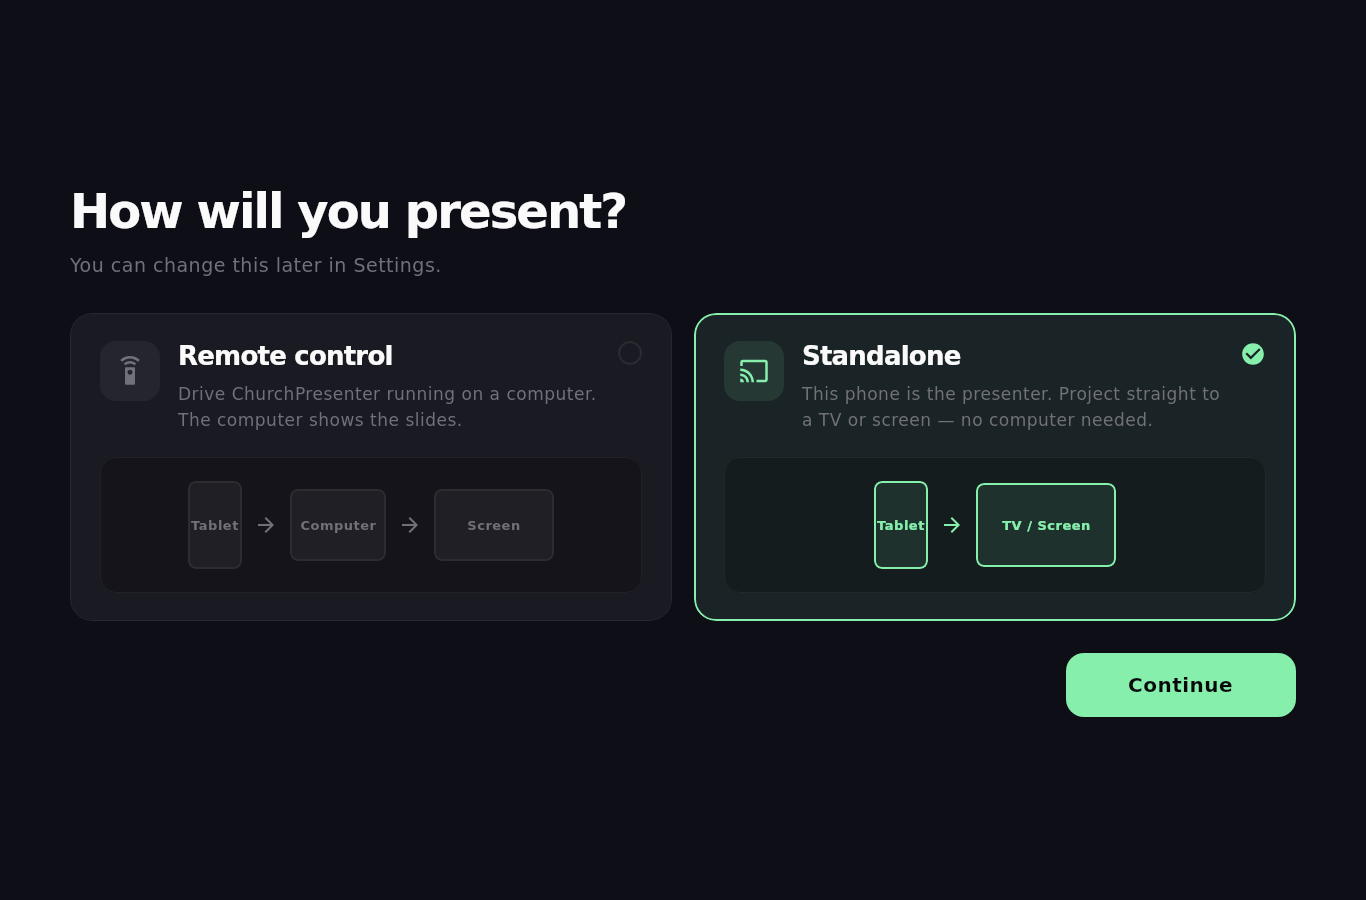
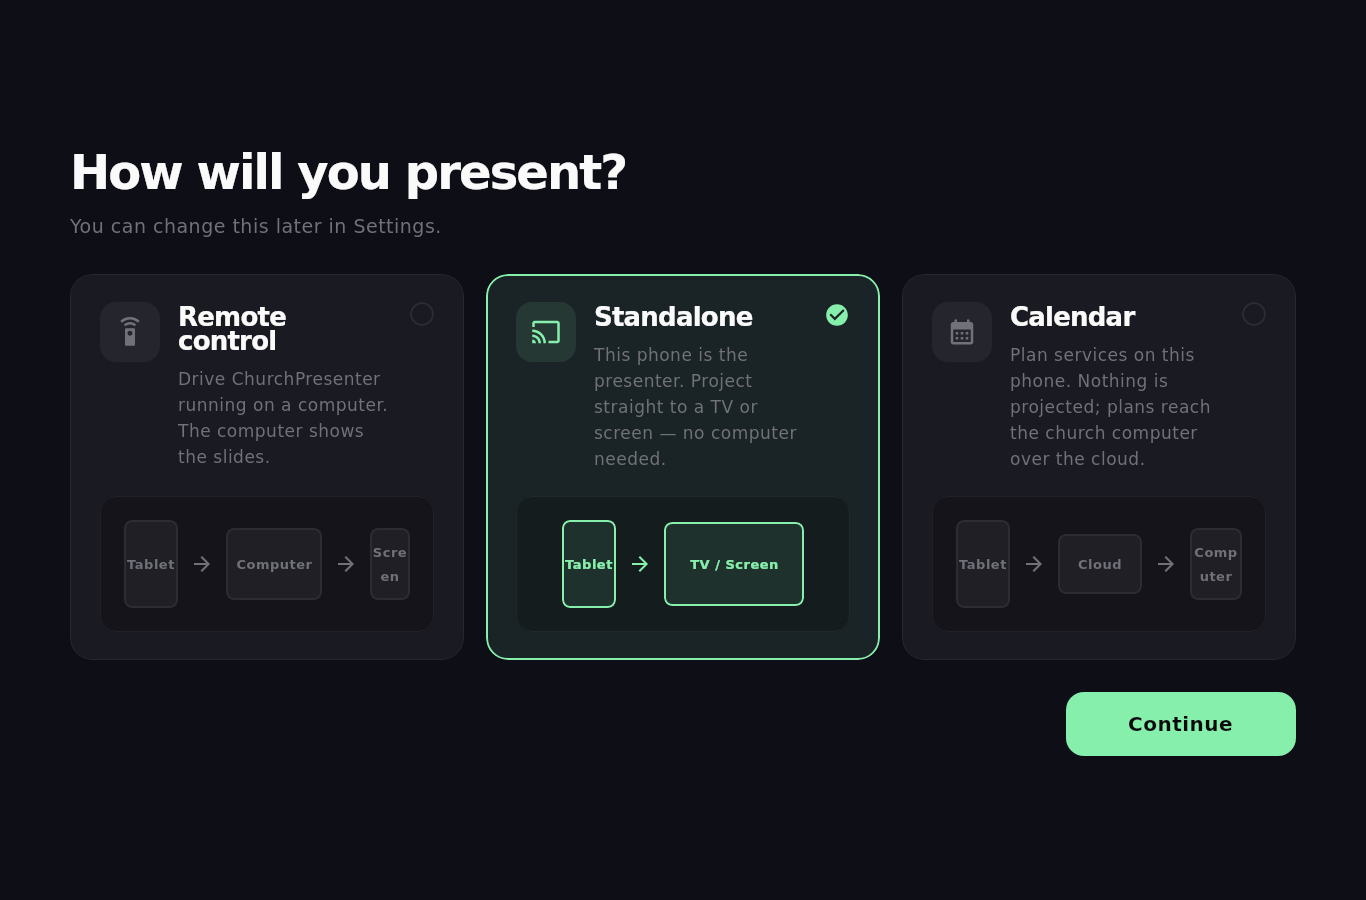
Add calendar screenshot coverage
Add a new `CalendarSheetsScreenshotTest` covering calendar row editors, timing states, service forms, and copy-service flows. Update and add screenshot goldens for the new calendar mode and calendar sync states across bottom tabs, mode pickers, more screens, and calendar views.

diff --git a/composeApp/src/jvmTest/kotlin/com/church/presenter/churchpresentermobile/screenshot/CalendarSheetsScreenshotTest.kt b/composeApp/src/jvmTest/kotlin/com/church/presenter/churchpresentermobile/screenshot/CalendarSheetsScreenshotTest.kt
@@ -1,0 +1,194 @@
+package com.church.presenter.churchpresentermobile.screenshot
+
+import androidx.compose.foundation.layout.Column
+import androidx.compose.foundation.layout.fillMaxWidth
+import androidx.compose.foundation.layout.padding
+import androidx.compose.ui.Modifier
+import androidx.compose.ui.unit.dp
+import com.church.presenter.churchpresentermobile.model.PlanRow
+import com.church.presenter.churchpresentermobile.model.PlannedService
+import com.church.presenter.churchpresentermobile.model.RowEnd
+import com.church.presenter.churchpresentermobile.model.RowKind
+import com.church.presenter.churchpresentermobile.model.RowTiming
+import com.church.presenter.churchpresentermobile.model.SavedTemplate
+import com.church.presenter.churchpresentermobile.model.SectionPalette
+import com.church.presenter.churchpresentermobile.model.ServiceKind
+import com.church.presenter.churchpresentermobile.ui.calendar.CopyServiceContent
+import com.church.presenter.churchpresentermobile.ui.calendar.RowEditorContent
+import com.church.presenter.churchpresentermobile.ui.calendar.ServiceForm
+import com.church.presenter.churchpresentermobile.ui.calendar.TimingDraft
+import com.church.presenter.churchpresentermobile.ui.calendar.TimingPanel
+import kotlin.test.Test
+
+/**
+ * The calendar's sheets: the row editor, the service form, the copy dialog and the timing panel.
+ *
+ * Each is photographed as its content rather than through the modal sheet it normally opens in —
+ * a sheet is its own window, and a capture of the screen behind it shows nothing of what it covers.
+ */
+class CalendarSheetsScreenshotTest {
+
+    private val service = PlannedService(
+        id = "s1",
+        date = "2026-09-20",
+        name = "Sunday Morning",
+        startTime = "10:00",
+        rows = listOf(
+            PlanRow.Section(id = "r1", title = "Worship", color = SectionPalette.VIOLET),
+            PlanRow.Song(id = "r2", title = "Amazing Grace", songbook = "Hymnal", number = "42"),
+            PlanRow.Bible(id = "r3", title = "John 3:16-17", preview = "For God so loved the world"),
+            PlanRow.Ministry(id = "r4", title = "Welcome & notices", detail = "Anna"),
+            PlanRow.Ref(id = "r5", title = "Countdown", kind = RowKind.CUE, subtitle = "Blank the screens"),
+        ),
+        plannedSeconds = mapOf("r2" to 270, "r3" to 120, "r4" to 300),
+        timing = mapOf("r2" to RowTiming(startAt = "10:05", atEnd = RowEnd.NEXT)),
+    )
+
+    // ── The row editor, one per row kind ─────────────────────────────────
+
+    private fun rowEditor(name: String, index: Int) = screenshot(name) {
+        Column(modifier = Modifier.fillMaxWidth().padding(16.dp)) {
+            RowEditorContent(
+                service = service,
+                row = service.rows[index],
+                onSave = {},
+                onMove = {},
+                onRemove = {},
+                onDismiss = {},
+            )
+        }
+    }
+
+    /** A song: its title is the desktop's, so only its length and timing can be changed. */
+    @Test
+    fun rowEditorSong() = rowEditor("calendar-row__song", 1)
+
+    /** A heading: a name and a colour, and no timing at all. */
+    @Test
+    fun rowEditorSection() = rowEditor("calendar-row__section", 0)
+
+    /** A passage, which the phone may rename because the phone typed it. */
+    @Test
+    fun rowEditorBible() = rowEditor("calendar-row__bible", 2)
+
+    /** A ministry item: what happens, who it is, and how long it runs. */
+    @Test
+    fun rowEditorMinistry() = rowEditor("calendar-row__ministry", 3)
+
+    /** A cue: nothing of its own to show, so only where it sits in the order. */
+    @Test
+    fun rowEditorCue() = rowEditor("calendar-row__cue", 4)
+
+    // ── The timing panel on its own ──────────────────────────────────────
+
+    private fun timing(name: String, draft: TimingDraft) = screenshot(name) {
+        Column(modifier = Modifier.fillMaxWidth().padding(16.dp)) {
+            TimingPanel(draft = draft, onChange = {}, serviceStart = "10:00")
+        }
+    }
+
+    @Test
+    fun timingCued() = timing("calendar-timing__cued", TimingDraft())
+
+    @Test
+    fun timingPinned() = timing(
+        "calendar-timing__pinned",
+        TimingDraft(startOffsetMinutes = -5, runSeconds = 300, atEnd = RowEnd.NEXT),
+    )
+
+    @Test
+    fun timingLooping() = timing(
+        "calendar-timing__looping",
+        TimingDraft(followsPrevious = true, repeats = 0, atEnd = RowEnd.BLANK),
+    )
+
+    @Test
+    fun timingDisabled() = screenshot("calendar-timing__disabled") {
+        // A section's panel: drawn, so the shape of a row is the same everywhere, but inert.
+        Column(modifier = Modifier.fillMaxWidth().padding(16.dp)) {
+            TimingPanel(draft = TimingDraft(), onChange = {}, serviceStart = "10:00", enabled = false)
+        }
+    }
+
+    // ── The service form ─────────────────────────────────────────────────
+
+    private val templates = listOf(
+        SavedTemplate(id = "t1", name = "Standard Sunday", startTime = "10:00"),
+        SavedTemplate(id = "t2", name = "Carol Service", startTime = "18:30"),
+    )
+
+    @Test
+    fun newService() = screenshot("calendar-service__new") {
+        Column(modifier = Modifier.fillMaxWidth().padding(16.dp)) {
+            ServiceForm(
+                title = "New service",
+                subtitle = "Sunday, September 20, 2026",
+                initialName = "Sunday Morning",
+                initialStart = "10:00",
+                initialKind = ServiceKind.SUNDAY.id,
+                templates = templates,
+                confirmLabel = "Add service",
+                onConfirm = {},
+                onDismiss = {},
+            )
+        }
+    }
+
+    @Test
+    fun newServiceWithNoTemplatesSaved() = screenshot("calendar-service__new-no-templates") {
+        // A first-ever service: nothing to start from but a blank one.
+        Column(modifier = Modifier.fillMaxWidth().padding(16.dp)) {
+            ServiceForm(
+                title = "New service",
+                subtitle = "Sunday, September 20, 2026",
+                initialName = "Sunday Morning",
+                initialStart = "10:00",
+                initialKind = ServiceKind.SUNDAY.id,
+                templates = emptyList(),
+                confirmLabel = "Add service",
+                onConfirm = {},
+                onDismiss = {},
+            )
+        }
+    }
+
+    @Test
+    fun editService() = screenshot("calendar-service__edit") {
+        // The same form over a service that exists: Delete instead of a template list.
+        Column(modifier = Modifier.fillMaxWidth().padding(16.dp)) {
+            ServiceForm(
+                title = "Edit service",
+                subtitle = "Sunday, September 20, 2026",
+                initialName = "Sunday Morning",
+                initialStart = "18:30",
+                initialKind = ServiceKind.SPECIAL.id,
+                templates = emptyList(),
+                confirmLabel = "Save",
+                onConfirm = {},
+                onDismiss = {},
+                onDelete = {},
+            )
+        }
+    }
+
+    // ── Copying a service ────────────────────────────────────────────────
+
+    @Test
+    fun copyService() = screenshot("calendar-copy__weekly") {
+        Column(modifier = Modifier.fillMaxWidth().padding(16.dp)) {
+            CopyServiceContent(service = service, onCopy = {}, onDismiss = {})
+        }
+    }
+
+    @Test
+    fun copyServiceWithNoAutomation() = screenshot("calendar-copy__no-cues") {
+        // No cue rows, so the automation checkbox is not offered at all.
+        Column(modifier = Modifier.fillMaxWidth().padding(16.dp)) {
+            CopyServiceContent(
+                service = service.copy(rows = service.rows.filterNot { it.id == "r5" }),
+                onCopy = {},
+                onDismiss = {},
+            )
+        }
+    }
+}
